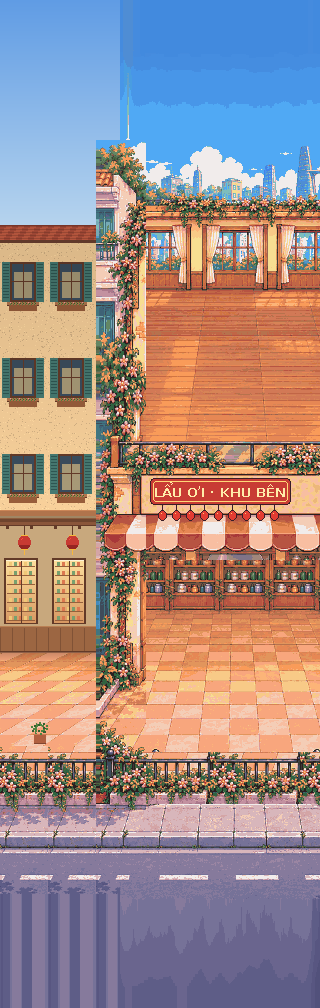
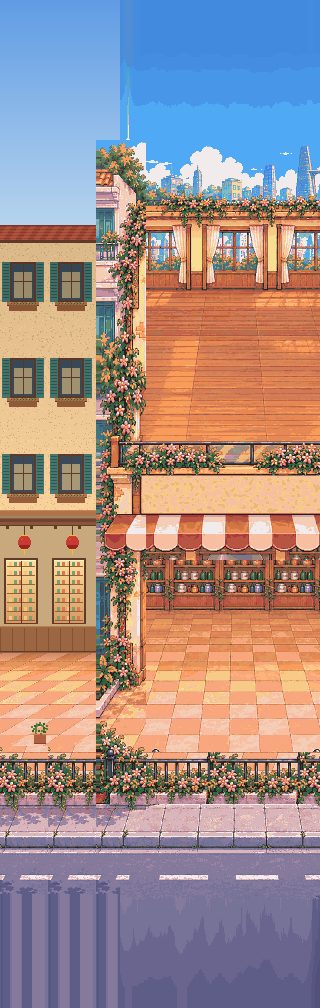
Lẩu Ơi v1.23d: bỏ biển "LẨU ƠI · KHU BÊN" ở dãy bên trái
Claude-Session: https://claude.ai/code/session_01BD8ysNy2UsXiFAiTavnXvs

Changed region(s): [[0.4688, 0.4613, 0.9062, 0.5228]]

diff --git a/web/quanlau/src/art/assets.js b/web/quanlau/src/art/assets.js
@@ -8,7 +8,7 @@
 // drawn with blit() at a world position lands 1:1 on buffer pixels (crisp, no resampling).
 // Keep DETAIL in sync with `DETAIL` in src/render/renderer.js.
 export const DETAIL = 2;
-export const ASSET_VER = 'l23b';   // v1.18n: icons.png + props.png có thêm khung mới (Hộp mù) — PHẢI tăng khi đổi PNG
+export const ASSET_VER = 'l23c';   // v1.18n: icons.png + props.png có thêm khung mới (Hộp mù) — PHẢI tăng khi đổi PNG
 /** khung có nằm trong ảnh đã tải không (ảnh cũ trong bộ nhớ đệm + dữ liệu khung mới → Safari báo lỗi drawImage) */
 export const frameOk = (rec, f) => !!(rec && rec.img && f) && f[0] + f[2] <= (rec.img.naturalWidth || rec.img.width) && f[1] + f[3] <= (rec.img.naturalHeight || rec.img.height);
 

diff --git a/web/quanlau/sw.js b/web/quanlau/sw.js
@@ -1,7 +1,7 @@
 // Lẩu Ơi! service worker (v1.2): makes the game installable as an app (Android "Cài đặt ứng dụng", desktop Chrome/Edge)
 // and lets it open without a connection. Network first: an online player always gets the newest files; the cached
 // copy is only used when the network fails. Saves live in localStorage and are never touched here.
-const CACHE = 'lauoi-v60';
+const CACHE = 'lauoi-v61';
 // Trang thật là /quanlau (vercel.json: trailingSlash:false) nên scope là "/quanlau", không phải "/quanlau/".
 const HOME = '/quanlau';
 const CORE = [HOME, 'index.html', 'style.css', 'manifest.json', 'src/main.js', 'assets/app/icon-192.png'];
